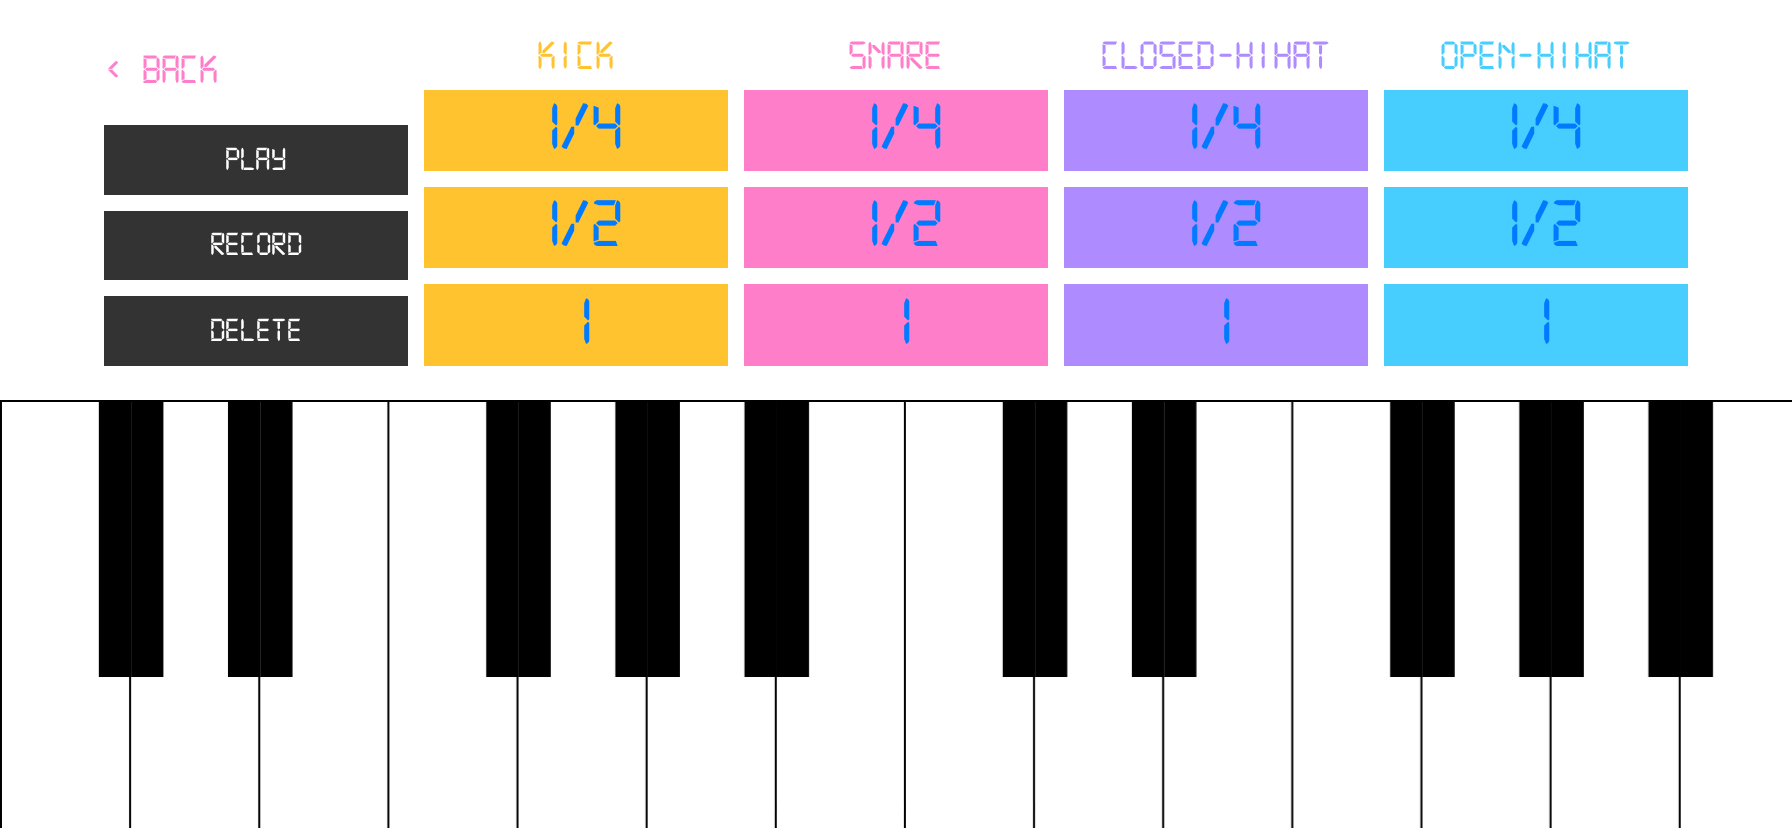
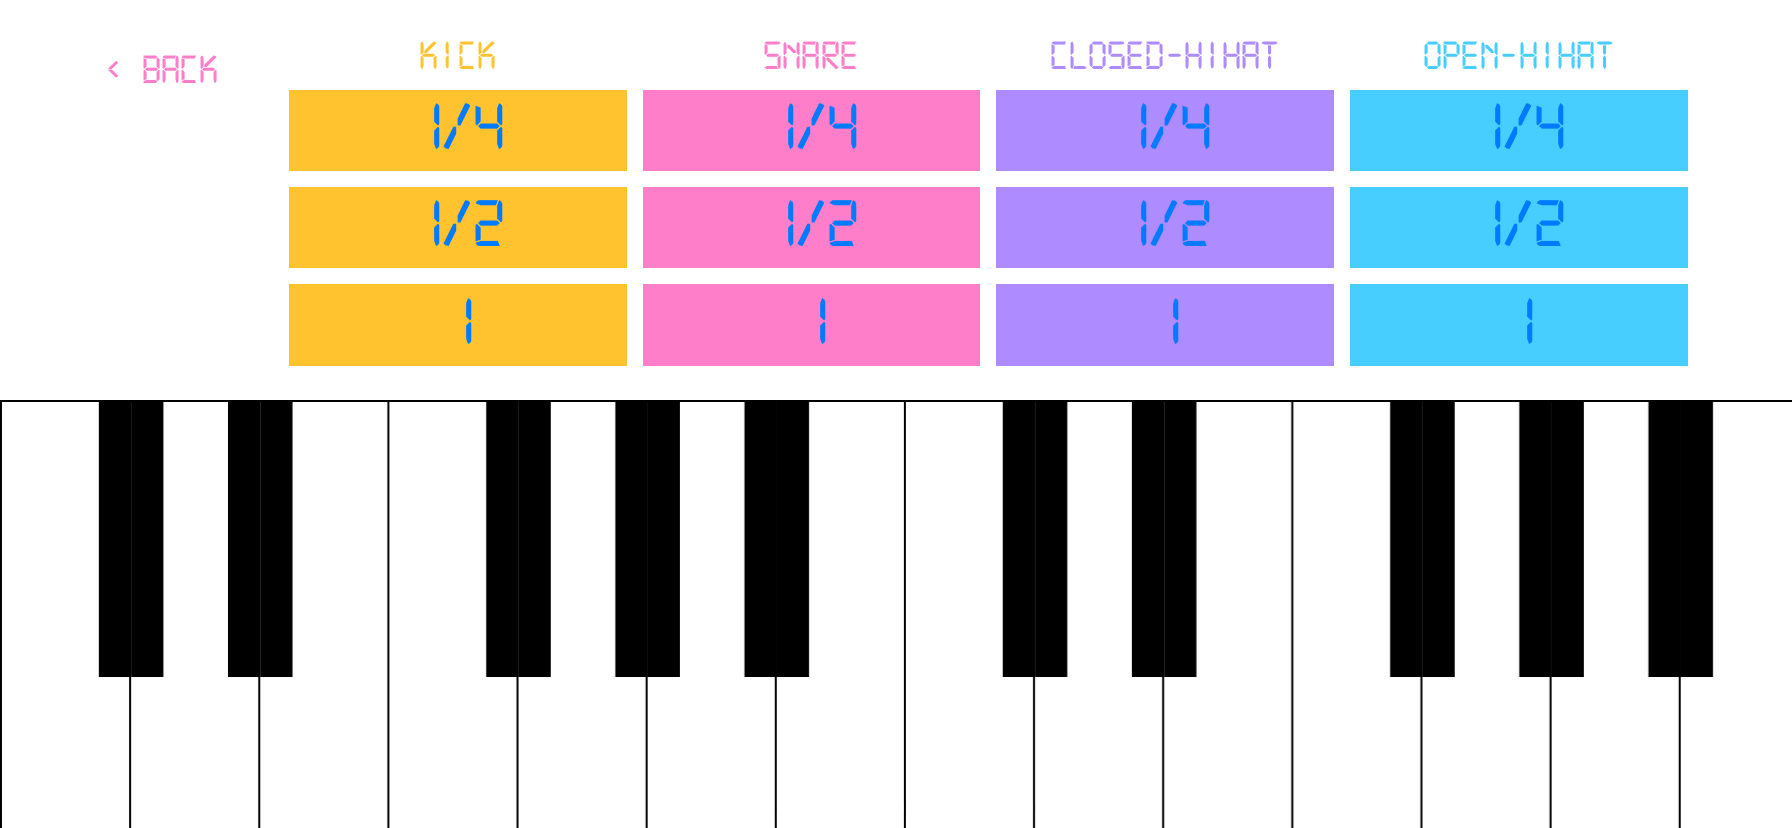
Remove record buttons, changed help and readme

diff --git a/LearnPiano/HelpViewController.swift b/LearnPiano/HelpViewController.swift
@@ -19,7 +19,7 @@ class HelpViewController: UIViewController {
         // 0 number of lines allows the text to dynamically add new lines to the text to fit line breaks
         pianoHelpLabel.lineBreakMode = .byWordWrapping
         pianoHelpLabel.numberOfLines = 0
-        pianoHelpLabel.text = "Press the keys at the bottom of the screen to play notes.\n\nPress the pads at the top to enable drum loops.\n1/4 - plays 4 times in a given moment.\n1/2 - plays 2 times in a given moment.\n1 - plays 1 time in a given moment.\n\nPress record begin recording and press again to end recording.\nPress play to play the recording.\nPress delete to delete the recording."
+        pianoHelpLabel.text = "Press the keys at the bottom of the screen to play notes.\n\nPress the pads at the top to enable drum loops.\n1/4 - plays 4 times in a given moment.\n1/2 - plays 2 times in a given moment.\n1 - plays 1 time in a given moment."
         
         settingsHelpLabel.lineBreakMode = .byWordWrapping
         settingsHelpLabel.numberOfLines = 0

diff --git a/README.md b/README.md
@@ -26,12 +26,6 @@ On the keyboard scene, there are also looping drum pads that the user can enable
 - 1/2 - Which means the instrument should play 2 times in a given moment (2 half notes in a bar)
 - 1 - Whichi means the instument should play 1 time in a a given moment (1 whole note in a bar)
 
-There is also a recording function in the keyboard scene where the user can:
-
-- Record what they are playing by pressing the Record button and pressing again to end the recording.
-- Playback what they have recorded by pressing the Play button.
-- Delete what they have recorded by pressing the delete button.
-
 ### Settings Scene
 
 <kbd>
